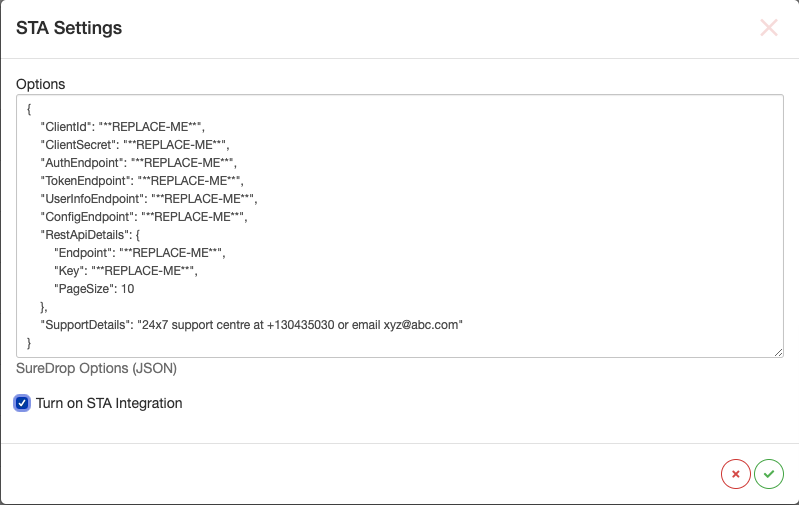
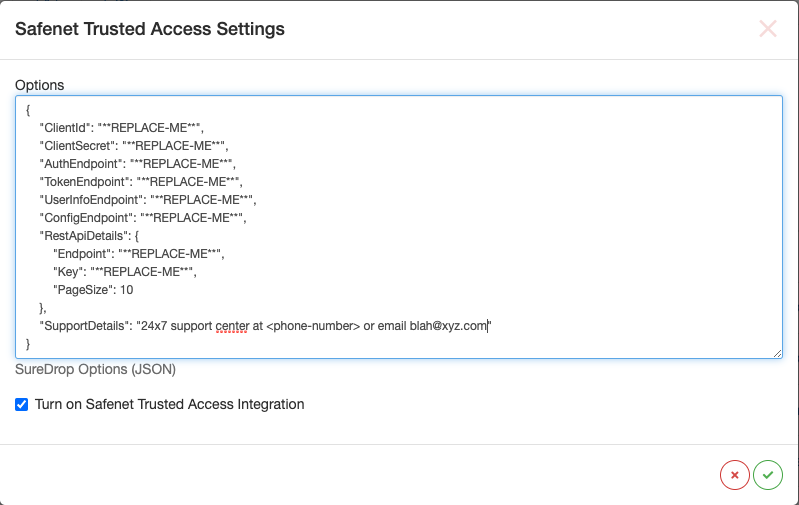
Expand STA

diff --git a/docs/source/integrations/IDP.rst b/docs/source/integrations/IDP.rst
@@ -10,9 +10,9 @@ Contents
     -  `Setup SureDrop for Azure AD <#setup-suredrop-for-azure-ad>`__
 -  `Windows Server Active Directory
    Integration <#windows-server-active-directory-integration>`__
--  `STA Integration <#sta-integration>`__
-    -  `Setup STA <#setup-sta>`__
-    -  `Setup SureDrop for STA <#setup-suredrop-for-sta>`__
+-  `Safenet Trusted Access Integration <#safenet-trusted-access-integration>`__
+    -  `Setup Safenet Trusted Access <#setup-safenet-trusted-access>`__
+    -  `Setup SureDrop for Safenet Trusted Access <#setup-suredrop-for-safenet-trusted-access>`__
 -  `Known issues <#known-issues>`__
 
 Introduction
@@ -306,18 +306,18 @@ powershell command to find the correct value. For example,
 
 .. _sta:
 
-STA Integration
----------------
+Safenet Trusted Access Integration
+----------------------------------
 
-SafeNet Trusted Access has been integrated with SureDrop using
+SafeNet Trusted Access (STA) has been integrated with SureDrop using
 `OIDC <https://openid.net/connect/>`__ protocol. The configuration
 (similar to Azure) is a two step process. First the administrator needs
 to configure STA (create groups, users, an OIDC application) and then
 configure SureDrop to connect to the IDP. SureDrop then downloads the
 user information and allows SSO (single-sign-on) using STA.
 
-Setup STA
-~~~~~~~~~
+Setup Safenet Trusted Access
+~~~~~~~~~~~~~~~~~~~~~~~~~~~~
 
 If you know how to setup STA then please skip to the next section,
 otherwise
@@ -365,8 +365,8 @@ A typical setup would look similar to this:
 .. figure:: ../images/2.10.0/STA+Setup.png
    :alt: STA Setup
 
-Setup SureDrop for STA
-~~~~~~~~~~~~~~~~~~~~~~
+Setup SureDrop for Safenet Trusted Access
+~~~~~~~~~~~~~~~~~~~~~~~~~~~~~~~~~~~~~~~~~
 
 To open the STA Integration dialog go to the admin page. If the side-bar
 menu is in normal state (not collapsed) then expand the Identity
